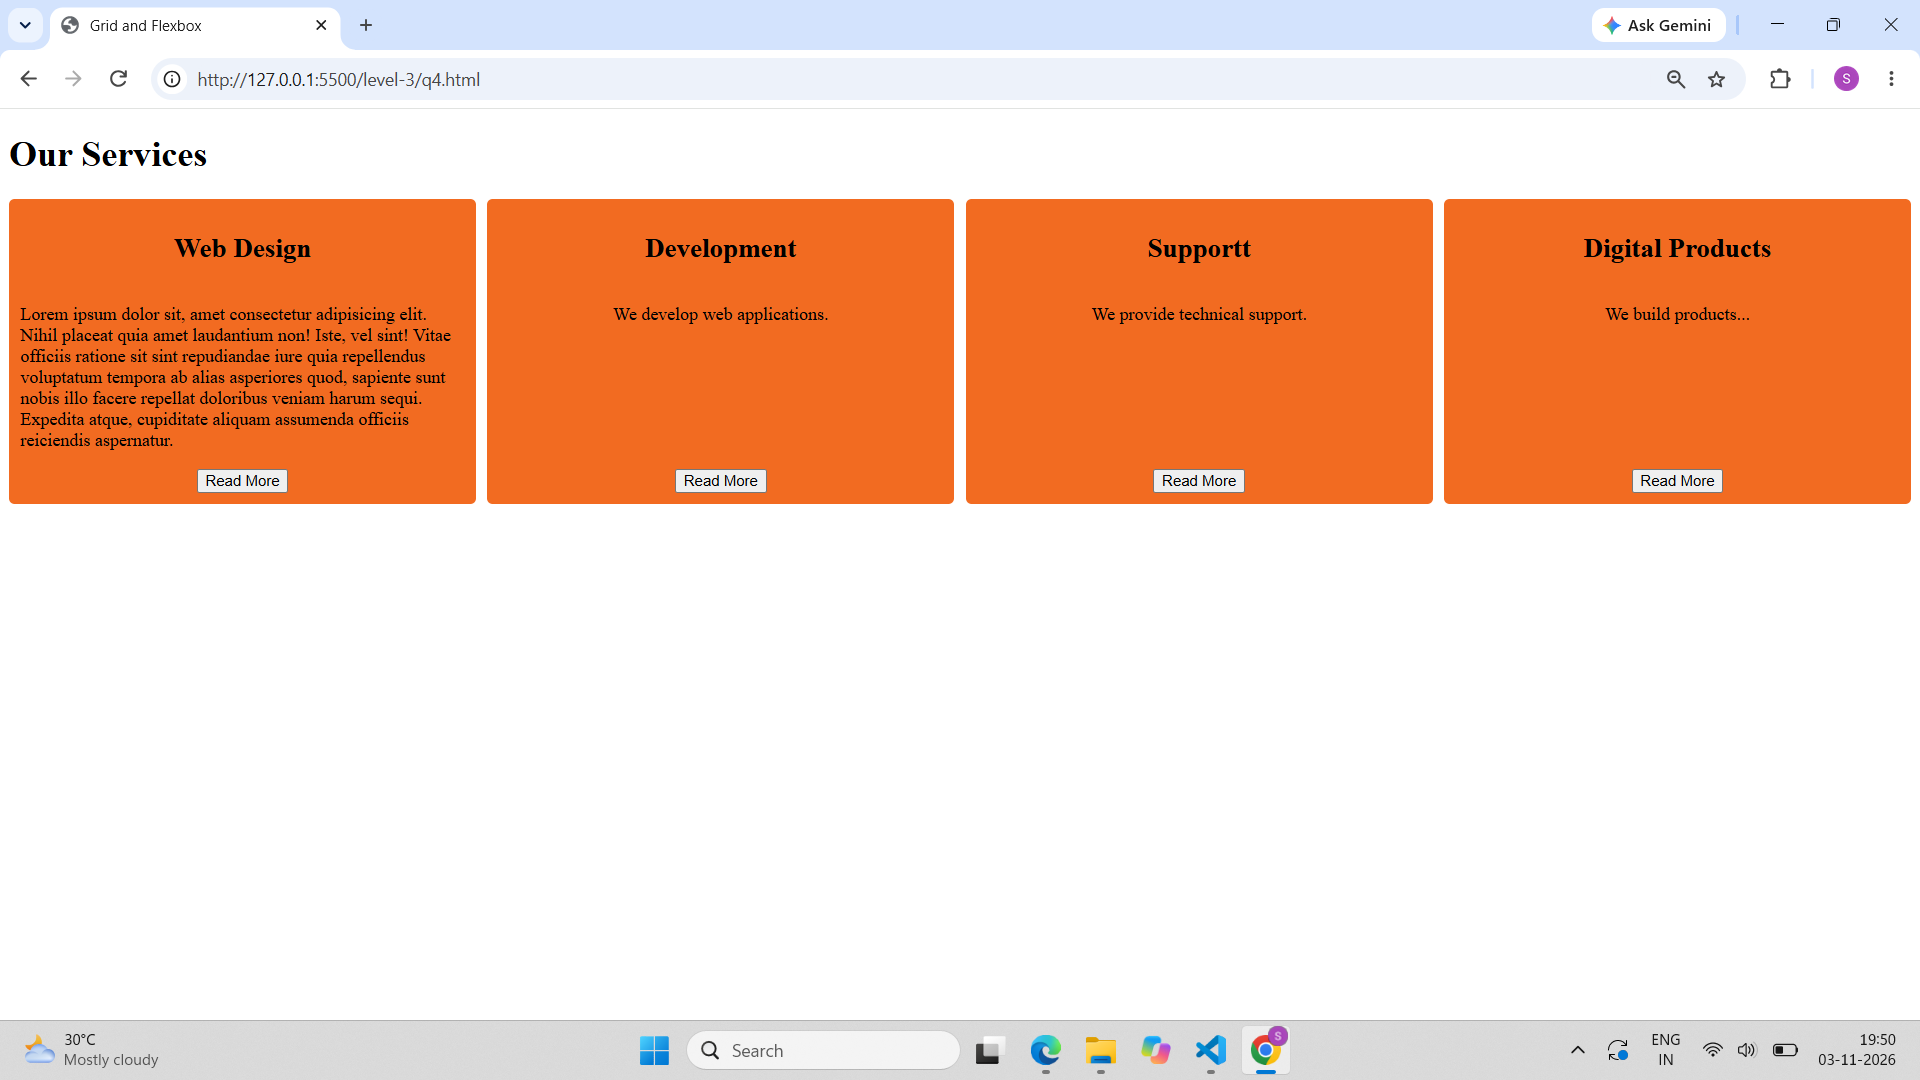
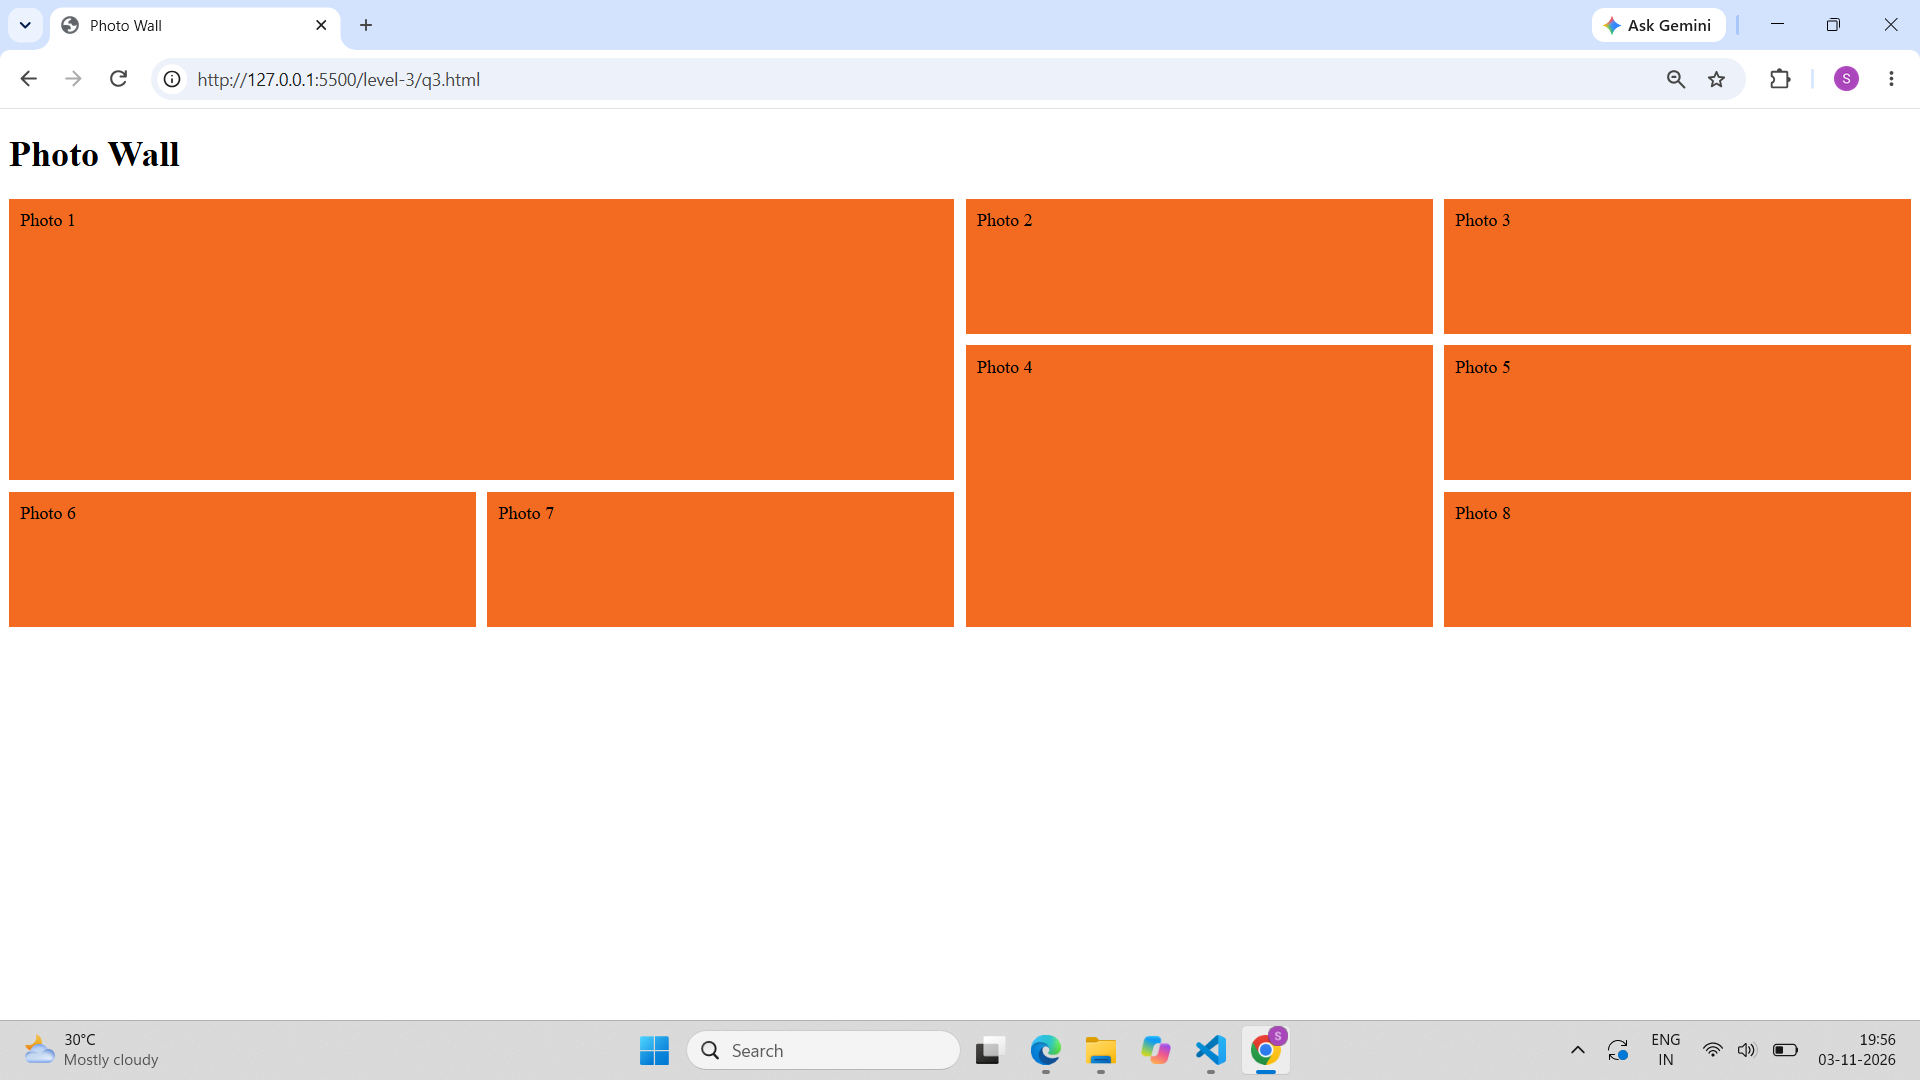
ADD level-3 q4 and q5, html and css, screenshot files

diff --git a/level-3/q3.html b/level-3/q3.html
@@ -1,0 +1,27 @@
+<!DOCTYPE html>
+<html lang="en">
+<head>
+    <meta charset="UTF-8">
+    <meta name="viewport" content="width=device-width, initial-scale=1.0">
+    <link rel="stylesheet" href="css/q3.css">
+    <title>Photo Wall</title>
+
+    
+</head>
+<body>
+
+    <h1>Photo Wall</h1>
+
+    <div class="gallery">
+        <div class="photo">Photo 1</div>
+        <div class="photo">Photo 2</div>
+        <div class="photo">Photo 3</div>
+        <div class="photo">Photo 4</div>
+        <div class="photo">Photo 5</div>
+        <div class="photo">Photo 6</div>
+        <div class="photo">Photo 7</div>
+        <div class="photo">Photo 8</div>
+    </div>
+
+</body>
+</html>

diff --git a/level-3/css/q5.css b/level-3/css/q5.css
@@ -1,0 +1,39 @@
+* {
+  margin: 0;
+  padding: 0;
+  box-sizing: border-box;
+}
+.navbar {
+  display: flex;
+  justify-content: space-between;
+  align-items: center;
+  background: #5b2a86;
+  padding: 1rem;
+  margin: 10px;
+}
+.logo {
+  color: white;
+  font-size: 1.5rem;
+  font-weight: bold;
+  text-decoration: none;
+}
+.links {
+  display: flex;
+  gap: 1.5rem;
+  list-style: none;
+}
+.links a {
+  color: white;
+  text-decoration: none;
+}
+@media (max-width: 600px) {
+  .navbar {
+    flex-direction: column;
+    gap: 15px;
+  }
+  .links {
+    flex-direction: column;
+    text-align: center;
+    gap: 5px;
+  }
+}

diff --git a/level-3/q5.html b/level-3/q5.html
@@ -1,0 +1,19 @@
+<!doctype html>
+<html lang="en">
+  <head>
+    <meta charset="UTF-8" />
+    <meta name="viewport" content="width=device-width, initial-scale=1.0" />
+    <link rel="stylesheet" href="css/q5.css" />
+    <title>navbar</title>
+  </head>
+  <body>
+    <nav class="navbar">
+      <a class="logo" href="#">LearnHub</a>
+      <ul class="links">
+        <li><a href="#">Home</a></li>
+        <li><a href="#">Courses</a></li>
+        <li><a href="#">Contact</a></li>
+      </ul>
+    </nav>
+  </body>
+</html>

diff --git a/level-3/css/q3.css b/level-3/css/q3.css
@@ -1,0 +1,20 @@
+.gallery{
+    display: grid;
+    grid-template-columns: repeat(4,1fr);
+    gap: 10px;
+    grid-auto-flow: dense;
+    grid-auto-rows: 120px;
+    
+}
+.photo{
+    background-color: #f26b21;
+    
+    padding: 10px;
+}
+.photo:nth-child(1){
+    grid-column: span 2;
+    grid-row: span 2;
+}
+.photo:nth-child(4){
+    grid-row: span 2;
+}
